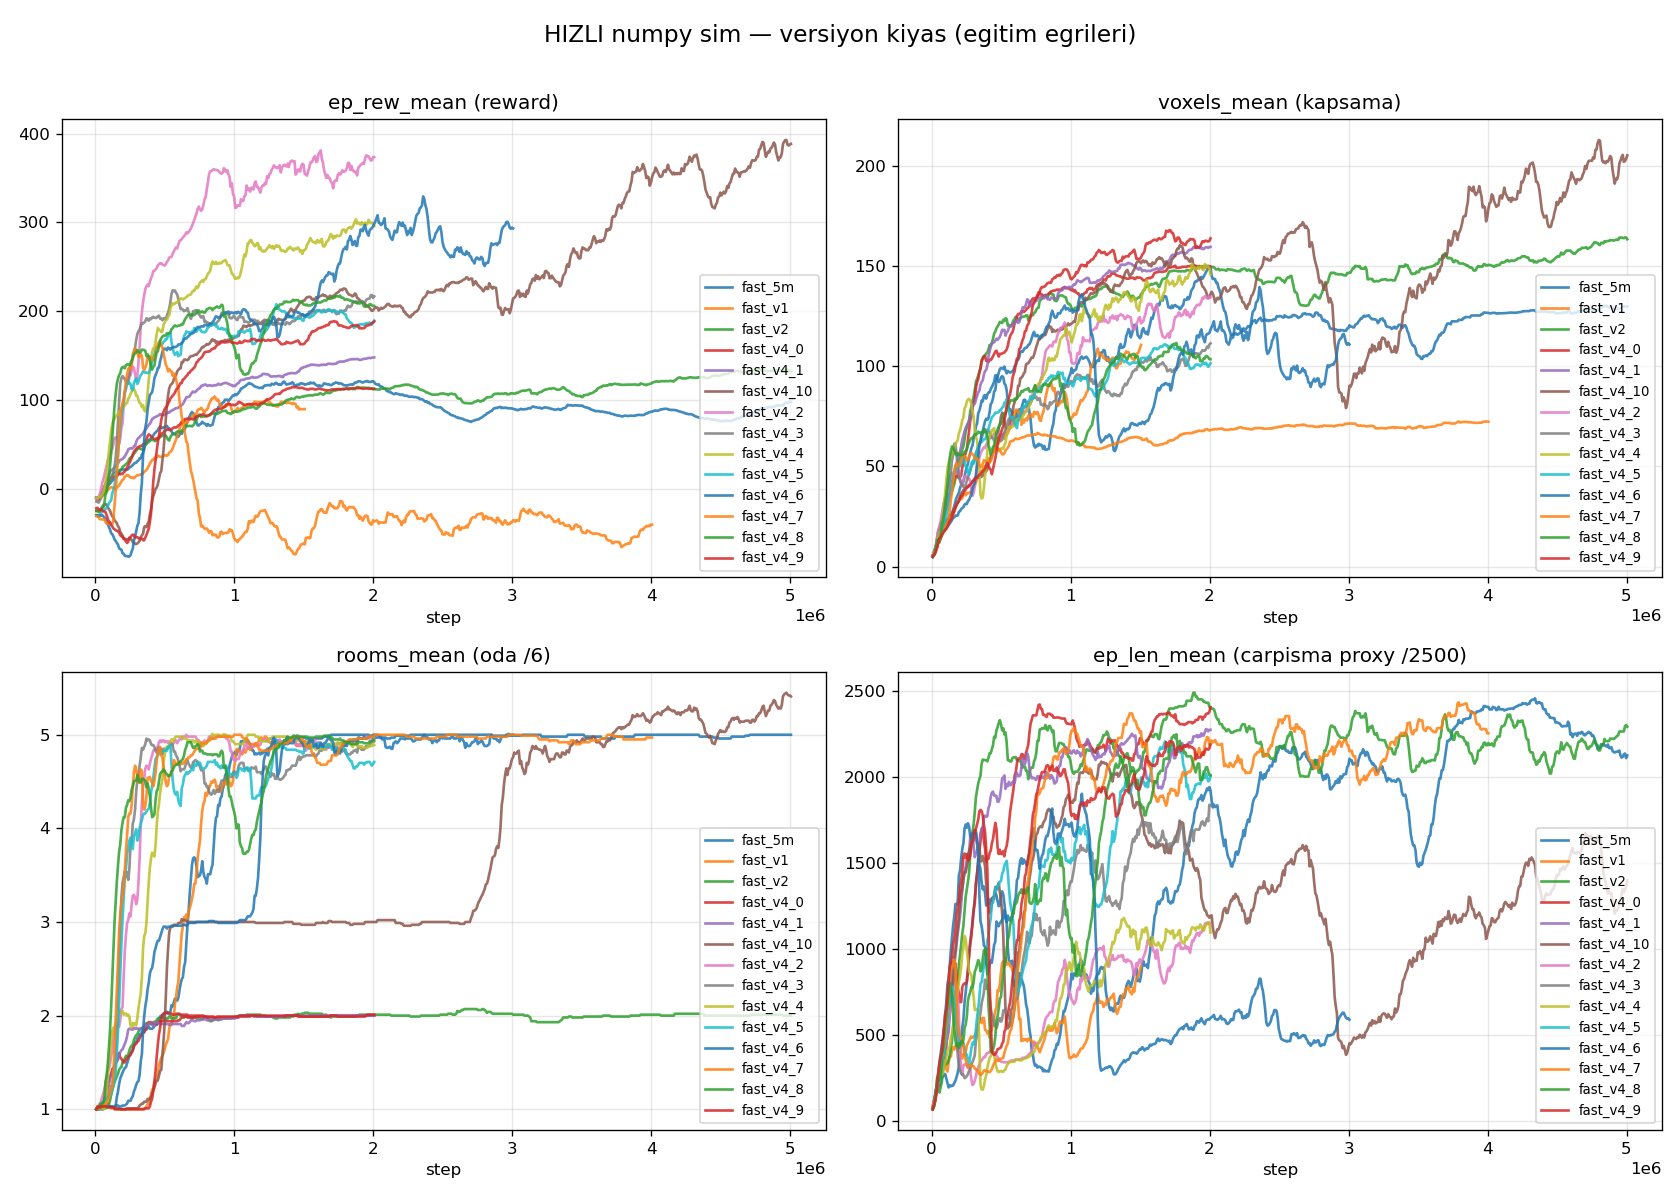
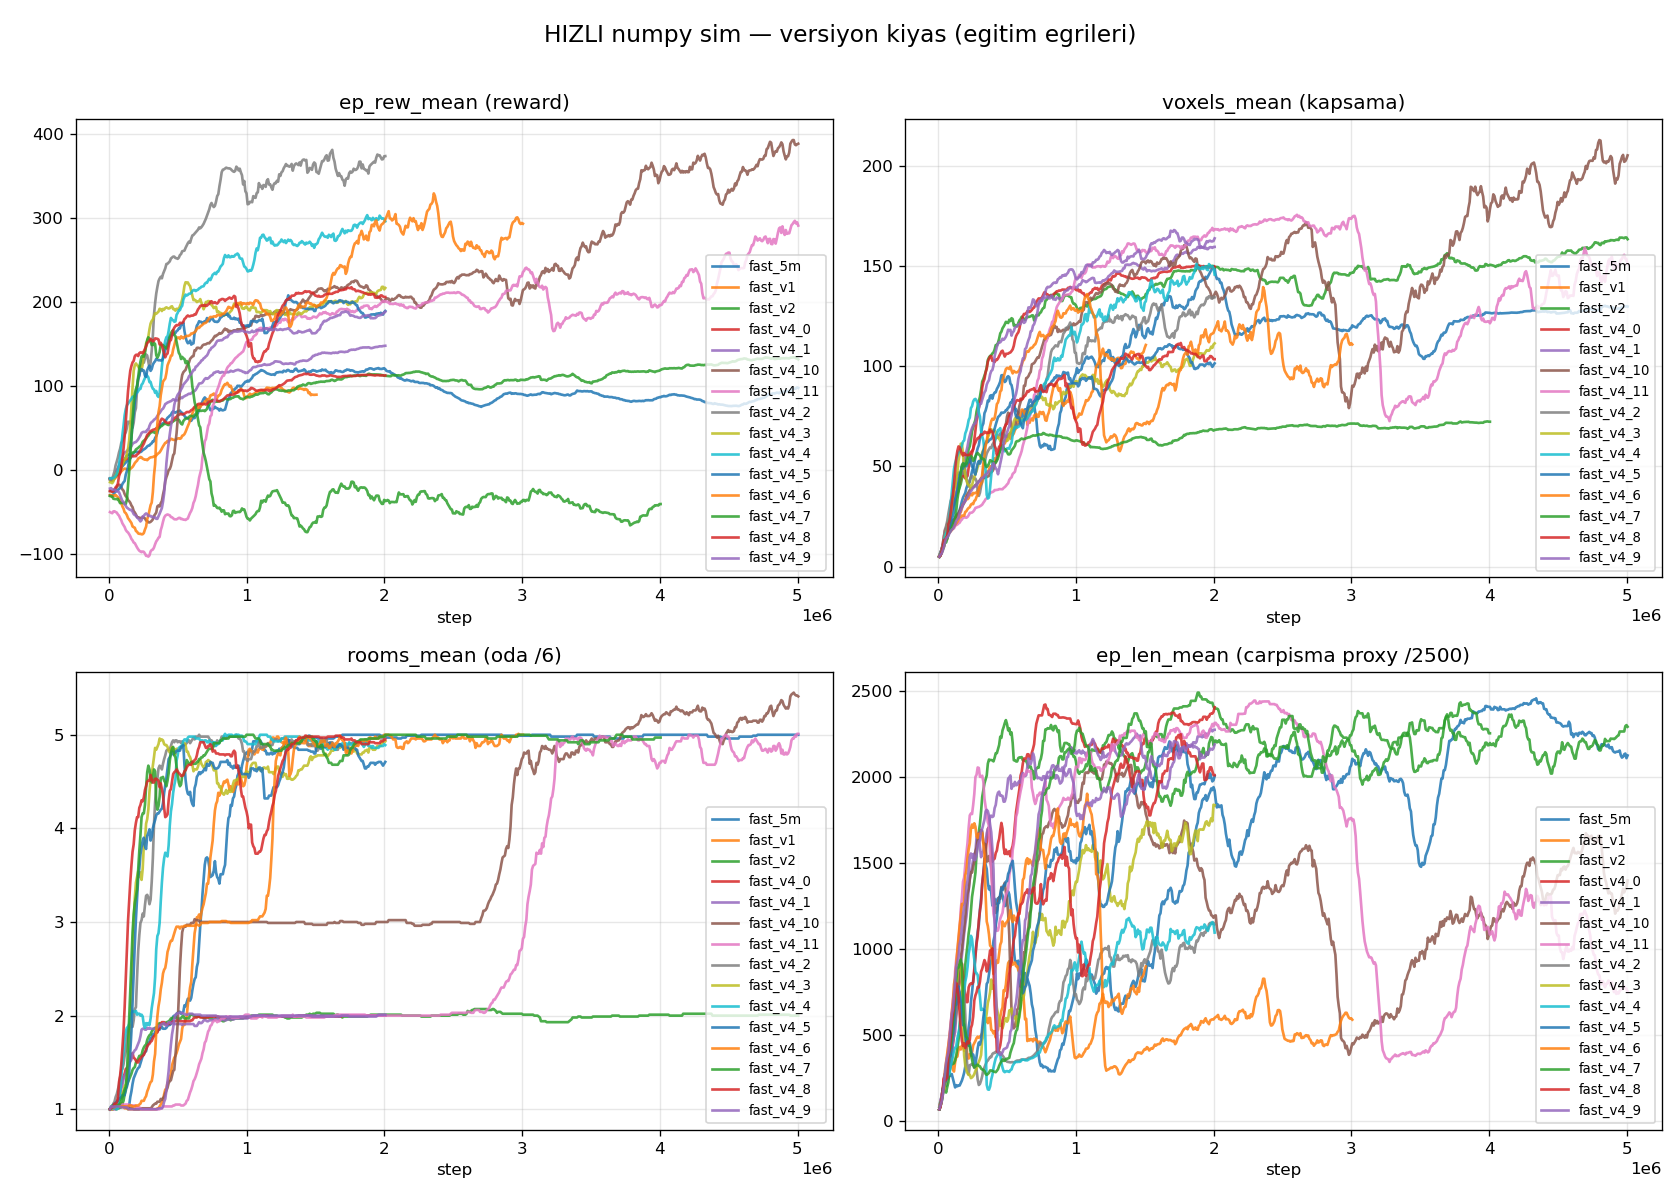
v4.11 eval (5M+collision50=%100 carpisma; ceza 5M de guvenligi kurtarmiyor) -> v4.12 curriculum (v4.8 resume+nazik finetune)

diff --git a/docs/EVAL_fast_v4_11.md b/docs/EVAL_fast_v4_11.md
@@ -1,0 +1,16 @@
+# fast_v4_11 (numpy/Gymnasium sim) — 100 episode
+
+Model: `fast_drone_final.zip` | deterministic | hareketli engeller aktif | ~100x hizli sim
+
+| Metrik | Deger |
+|---|---|
+| Return | 154.8 ± 23.7 (min 56, max 185) |
+| Voxel / 1024 | 147.4 ± 25.3 (min 47, max 197) |
+| Oda / 6 | 4.9 ± 0.4 (min 3, max 5) |
+| Episode / 2500 | 730.1 ± 197.6 (min 201, max 1438) |
+| Carpisma orani | 100% (100/100) |
+| Birlesik kapsama | 280/1024 (27%) |
+
+![coverage](figures/eval_fast_v4_11_coverage.png)
+
+![traj](figures/eval_fast_v4_11_trajectories.png)
